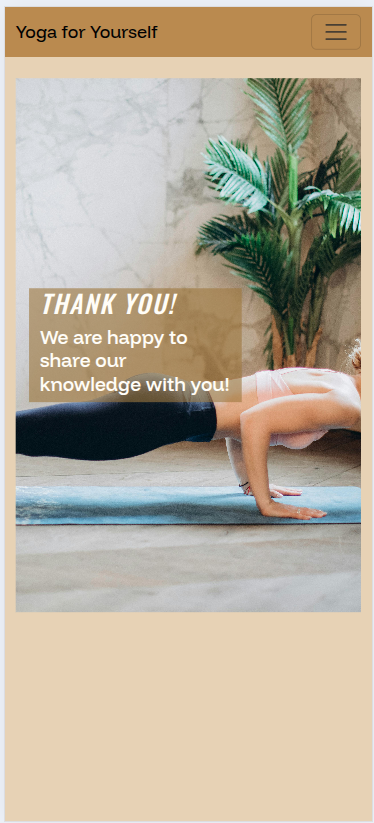
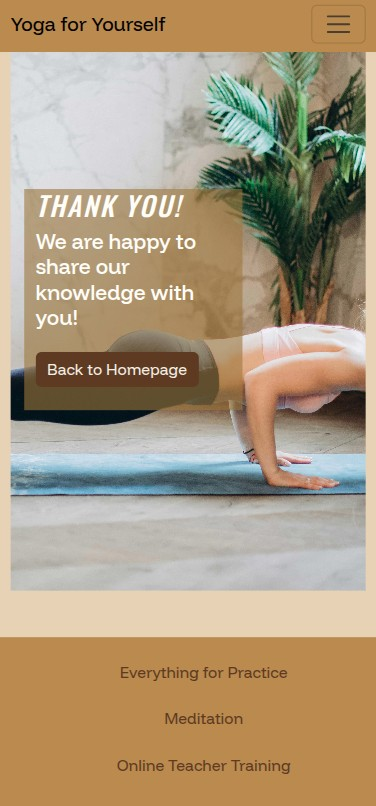
Updated photos and descriptions of 404 pages and success in ReadMe

diff --git a/README.md b/README.md
@@ -193,14 +193,15 @@ It serves as a confirmation that the message was received and expresses gratitud
 - Responsive design – built with Bootstrap for compatibility across mobile, tablet, and desktop.
 - Fixed navigation bar – includes quick links to main sections (About, First try, Ask us about yoga) and a dropdown to find local yoga groups (Dublin, Paris, Berlin).
 - Hero section – centered message with a large “Thank you!” heading and a short follow-up text.
+- The button on the main section facilitates easy navigation back to the main page.
 - Brand identity – custom favicon, Google Fonts integration (Funnel Display, Oswald, Raleway, Roboto) for consistent typography.
 
 _Purpose_:
 To confirm a successful form submission, maintain consistent navigation, and encourage visitors to continue exploring yoga content on the site.
 | Device | Appearance |
 |---------|------------|
-| Mobile | <img src="documentation/success_mobile.png" width="390" height="844"> |
-| Tablet | <img src="documentation/success-tablet.png" width="1024" height="768">|
+| Mobile | <img src="documentation/success_mobile.png" width="195" height="422"> |
+| Tablet | <img src="documentation/success-tablet.png" width="512" height="384">|
 | Desktop | <img src="documentation/success_desktop.png" width="620" height="420"> |
 
 ### 404 Error Page
@@ -213,6 +214,7 @@ It informs the visitor that the page could not be found and keeps the main site 
 - Responsive design – built with Bootstrap to adapt across all screen sizes.
 - Fixed navigation bar – includes links to the main sections (About, First try, Ask us about yoga) and a dropdown menu for city-specific yoga groups (Dublin, Paris, Berlin).
 - Hero section – clear and minimal message: “Error 404 – This page does not exist.”
+- The button on the main section facilitates easy navigation back to the main page.
 - Consistent branding – same color scheme, typography, and favicon as the rest of the site.
 
 _Purpose_:
@@ -220,8 +222,8 @@ To provide a friendly and branded error page that prevents visitors from leaving
 
 | Device  | Appearance                                                         |
 | ------- | ------------------------------------------------------------------ |
-| Mobile  | <img src="documentation/404_mobile.png" width="100" height="160">  |
-| Tablet  | <img src="documentation/404_tablet.png" width="400" height="200">  |
+| Mobile  | <img src="documentation/404_mobile.png" width="195" height="422">  |
+| Tablet  | <img src="documentation/404_tablet.png" width="512" height="384">  |
 | Desktop | <img src="documentation/404_desktop.png" width="620" height="420"> |
 
 ### 📍 City Pages (Paris, Dublin, Berlin)
